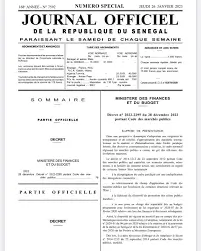
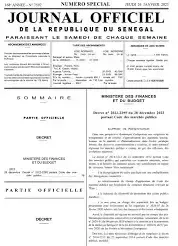
fix(home/documents): scroll horizontal

diff --git a/server/api/podcasts/[id].get.ts b/server/api/podcasts/[id].get.ts
@@ -1,13 +1,13 @@
-import { readItem } from "@directus/sdk";
+import { readItem } from '@directus/sdk';
 
 export default defineCachedEventHandler(
   async (event) => {
-    const id = getRouterParam(event, "id");
+    const id = getRouterParam(event, 'id');
 
     if (!id) {
       throw createError({
         statusCode: 400,
-        statusMessage: "ID du podcast manquant",
+        statusMessage: 'ID du podcast manquant',
       });
     }
 
@@ -15,30 +15,30 @@ export default defineCachedEventHandler(
       const directus = getCmsClient();
 
       const podcastData = await directus.request(
-        readItem("vp_podcasts", id, {
+        readItem('vp_podcasts', id, {
           fields: [
-            "id",
-            "title",
-            "slug",
-            "status",
-            "description",
-            "youtube_video_id",
-            "youtube_url",
-            "duration",
-            "date_published",
-            "date_updated",
-            "cover_image",
-            "tags",
-            "featured",
-            "view_count",
+            'id',
+            'title',
+            'slug',
+            'status',
+            'description',
+            'youtube_video_id',
+            'youtube_url',
+            'duration',
+            'date_published',
+            'date_updated',
+            'cover_image',
+            'tags',
+            'featured',
+            'view_count',
           ],
         }),
       );
 
-      if (podcastData.status !== "published") {
+      if (podcastData.status !== 'published') {
         throw createError({
           statusCode: 404,
-          statusMessage: "Podcast non trouvé",
+          statusMessage: 'Podcast non trouvé',
         });
       }
 
@@ -51,29 +51,18 @@ export default defineCachedEventHandler(
         youtube_url: podcastData.youtube_url,
         duration: podcastData.duration,
         date_published: podcastData.date_published,
-        ...(podcastData.date_updated
-          ? { date_updated: podcastData.date_updated }
-          : {}),
-        ...(podcastData.cover_image
-          ? { cover_image: podcastData.cover_image }
-          : {}),
+        ...(podcastData.date_updated ? { date_updated: podcastData.date_updated } : {}),
+        ...(podcastData.cover_image ? { cover_image: podcastData.cover_image } : {}),
         ...(podcastData.tags ? { tags: podcastData.tags } : {}),
-        ...(podcastData.featured !== undefined
-          ? { featured: podcastData.featured }
-          : {}),
-        ...(podcastData.view_count !== undefined
-          ? { view_count: podcastData.view_count }
-          : {}),
+        ...(podcastData.featured !== undefined ? { featured: podcastData.featured } : {}),
+        ...(podcastData.view_count !== undefined ? { view_count: podcastData.view_count } : {}),
       };
 
       return {
         data: podcast,
       };
     } catch (error: any) {
-      console.error(
-        `Erreur lors de la récupération du podcast ${id}:`,
-        error,
-      );
+      console.error(`Erreur lors de la récupération du podcast ${id}:`, error);
 
       if (error.statusCode) {
         throw error;
@@ -81,15 +70,15 @@ export default defineCachedEventHandler(
 
       throw createError({
         statusCode: 500,
-        statusMessage: "Erreur lors de la récupération du podcast",
+        statusMessage: 'Erreur lors de la récupération du podcast',
       });
     }
   },
   {
-    maxAge: 60 * 60,
-    name: "podcast-detail",
+    maxAge: 60 * 5,
+    name: 'podcast-detail',
     getKey: (event) => {
-      const id = getRouterParam(event, "id");
+      const id = getRouterParam(event, 'id');
       return `podcast-detail-${id}`;
     },
   },

diff --git a/app/components/HomeLatestDocuments.vue b/app/components/HomeLatestDocuments.vue
@@ -16,13 +16,13 @@ onMounted(() => {
 
     <!-- Loading state -->
     <div
-      v-if="store.isLoading"
-      class="flex snap-x snap-mandatory gap-3 overflow-x-auto pb-4 md:grid md:grid-cols-3 md:gap-4 md:overflow-x-visible md:pb-0"
+      v-if="store.isLoading || (!store.hasError && store.getLatestDocuments.length === 0)"
+      class="no-scrollbar flex snap-x snap-mandatory gap-3 overflow-x-auto pb-4 md:grid md:grid-cols-3 md:gap-4 md:overflow-x-visible md:pb-0"
     >
       <div
         v-for="n in 3"
         :key="n"
-        class="w-40 flex-shrink-0 snap-start animate-pulse sm:w-56 md:w-auto md:flex-shrink"
+        class="w-36 flex-shrink-0 snap-start animate-pulse sm:w-56 md:w-auto md:flex-shrink"
       >
         <div class="rounded-lg bg-gray-200 dark:bg-gray-700">
           <div class="aspect-[16/9] rounded-t-lg bg-gray-300 dark:bg-gray-600"></div>
@@ -46,12 +46,12 @@ onMounted(() => {
     <!-- Documents: défilement horizontal mobile, grille 3 colonnes desktop -->
     <div v-else>
       <div
-        class="flex snap-x snap-mandatory gap-3 overflow-x-auto pb-4 md:grid md:grid-cols-3 md:gap-4 md:overflow-x-visible md:pb-0"
+        class="no-scrollbar flex snap-x snap-mandatory gap-3 overflow-x-auto pb-4 md:grid md:grid-cols-3 md:gap-4 md:overflow-x-visible md:pb-0"
       >
         <UCard
           v-for="document in store.getLatestDocuments.slice(0, 3)"
           :key="document.id"
-          class="custom-shadow w-40 flex-shrink-0 snap-start cursor-pointer transition hover:shadow-lg sm:w-56 md:w-auto md:flex-shrink dark:bg-gray-800/90"
+          class="custom-shadow w-36 flex-shrink-0 snap-start cursor-pointer transition hover:shadow-lg sm:w-56 md:w-auto md:flex-shrink dark:bg-gray-800/90"
         >
           <NuxtLink :to="document.url" class="flex flex-col">
             <!-- Image -->
@@ -109,3 +109,15 @@ onMounted(() => {
     </div>
   </div>
 </template>
+
+<style scoped>
+/* Masquer la scrollbar tout en gardant le scroll fonctionnel */
+.no-scrollbar {
+  -ms-overflow-style: none; /* IE and Edge */
+  scrollbar-width: none; /* Firefox */
+}
+
+.no-scrollbar::-webkit-scrollbar {
+  display: none; /* Chrome, Safari, Opera */
+}
+</style>
